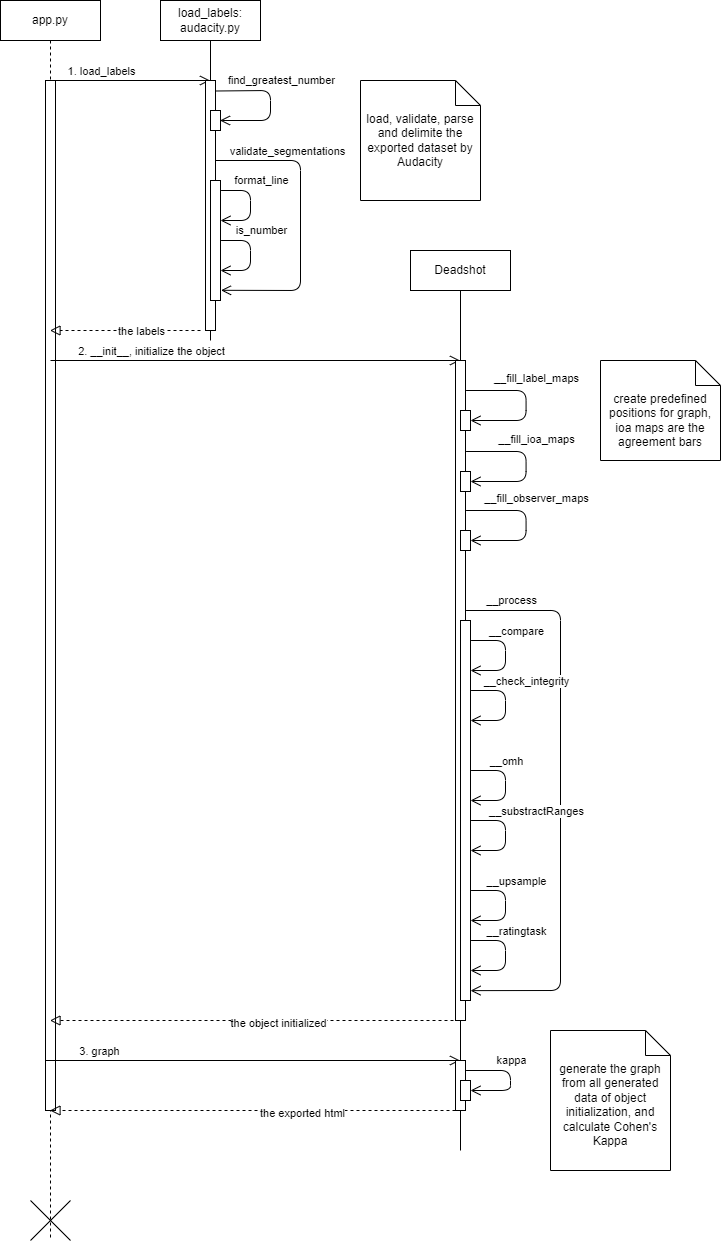
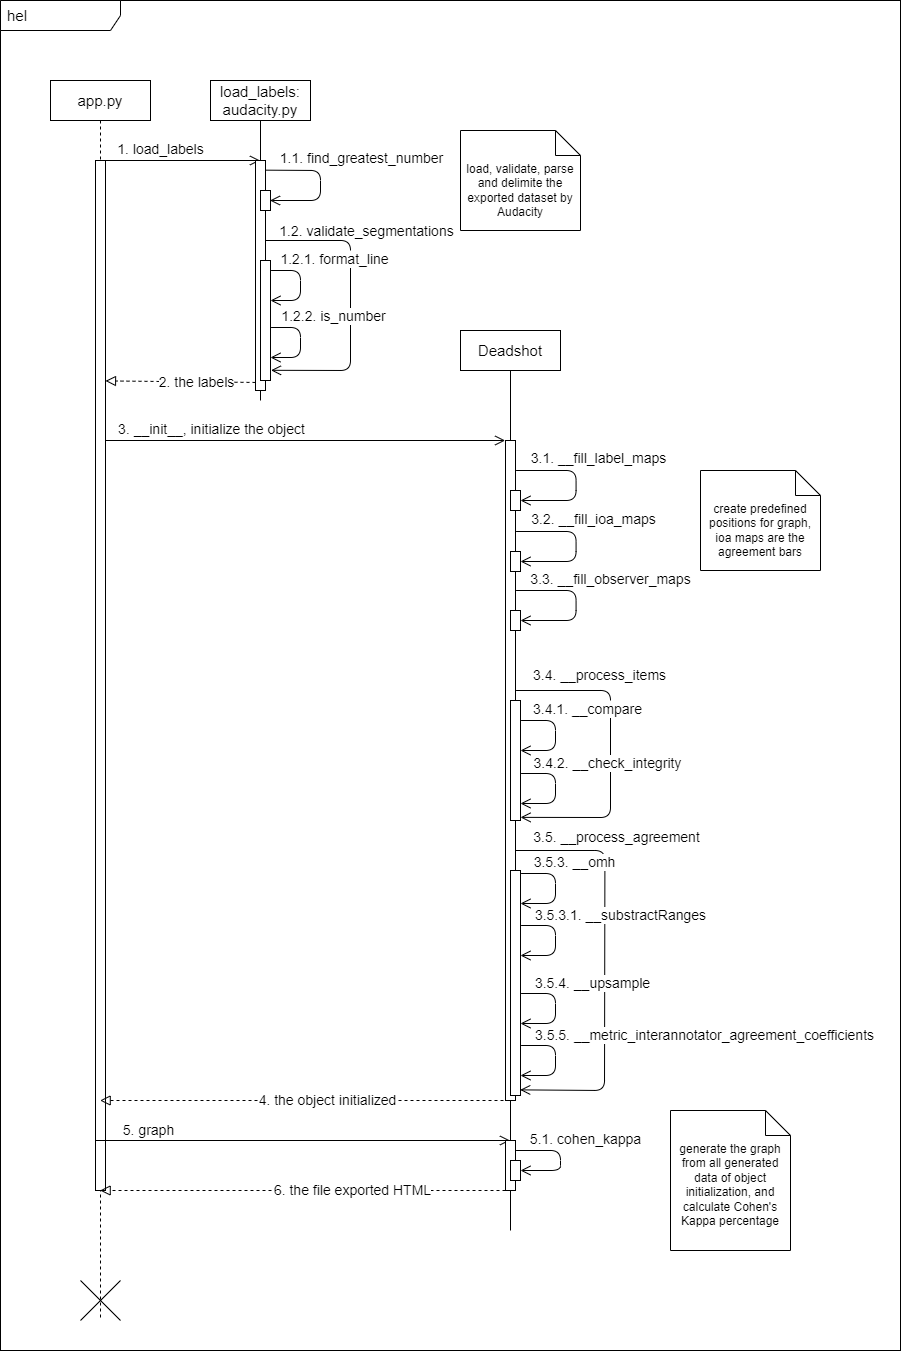
update docs and change names

diff --git a/app/lib/measures.py b/app/lib/measures.py
@@ -39,7 +39,8 @@ class Deadshot(object):
         self.__fill_label_maps()
         self.__fill_ioa_maps()
         self.__fill_observer_maps(sample_data)
-        self.__process(sample_data)
+        items1, items2 = self.__process_items(sample_data)
+        self.__process_agreement(items1, items2)
 
     def __fill_label_maps(self):
         incrementInEventRail = 0.0013
@@ -64,7 +65,6 @@ class Deadshot(object):
 
     def __check_integrity(self):
         o1, o2 = (len(v) for v in self.agreements.values())
-        if self.debug: print(f'[DEBUG] number of events in observer1: {o1}, observer2: {o2}')
         return True if o1 == o2 else False
 
     def __compare(self, v1, v2, observer1, observer2):
@@ -80,7 +80,7 @@ class Deadshot(object):
                     cv2.remove(event2)
                     break
 
-    def __subtractRanges(self, A, B):
+    def __items_symmetric_difference(self, A, B):
         ''' SUBTRACTS A FROM B
             e.g, A =    ------
                  B =  -----------
@@ -117,7 +117,7 @@ class Deadshot(object):
         while i < vl:
             if i + 1 < vl:
                 A, B = v[i], v[i + 1]
-                ranges = self.__subtractRanges(A, B)
+                ranges = self.__items_symmetric_difference(A, B)
                 if ranges[-1]:
                     del v[i]
                     del v[i + 1]
@@ -128,7 +128,7 @@ class Deadshot(object):
             i += 1
         return v
 
-    def __upsample(self, v, L, pad, d):
+    def __upsample_items(self, v, L, pad, d):
         '''__upsample(self, v) -> list
         e.g. #pv = [(0, 0.144560, 'RVF'), (0.201564, 0.856712, 'N')] # procesed vector
 
@@ -146,39 +146,32 @@ class Deadshot(object):
                 track[j] = label
         return track
 
-    def __process(self, sample_data):
-        t = process_time()
+    def __process_items(self, sample_data):
         data1, data2 = ((k, v) for k, v in sample_data.items())
-        o1, v1 = data1
-        o2, v2 = data2
-        if not v1 or not v2:
-            raise Exception('v1 or v2 not presented')
-        self.__compare(v1, v2, o1, o2)
-        self.__compare(v2, v1, o2, o1)
+        coder1, items1 = data1
+        coder2, items2 = data2
+        if not items1 or not items2:
+            raise Exception('items1 or items2 not presented')
+        self.__compare(items1, items2, coder1, coder2)
+        self.__compare(items2, items1, coder2, coder1)
 
         if not self.__check_integrity():
-            if self.debug: print(self.agreements)
             raise Exception('There are difference between two observers')
-        elapsed_time = process_time() - t
-        print(f'[BENCHMARK] -- {elapsed_time * 1000:.4f}ms') # if self.debug:
-        ov1 = self.__omh(v1)
-        if self.debug: print(f'[BENCHMARK] from omh v1 -- {timeit(lambda: self.__omh(v1), number=1000) * 1000:.4f}ms')
-        ov2 = self.__omh(v2)
-        if self.debug: print(f'[BENCHMARK] from omh v2 -- {timeit(lambda: self.__omh(v2), number=1000) * 1000:.4f}ms')
-        ref = self.__upsample(ov1, L=self.t, pad=self.padding, d=self.framing)
-        if self.debug: print(f'[BENCHMARK] from f(ov1) -- {timeit(lambda: self.__upsample(ov1, L=self.t, pad=self.padding, d=self.framing), number=1) * 1000:.4f}ms')
-        hyp = self.__upsample(ov2, L=self.t, pad=self.padding, d=self.framing)
-        if self.debug: print(f'[BENCHMARK] from f(ov2) -- {timeit(lambda: self.__upsample(ov2, L=self.t, pad=self.padding, d=self.framing), number=1) * 1000:.4f}ms')
-        if self.debug: print(f'[DEBUG] len of {len(ref)}, {len(hyp)}')
+        return (items1, items2)
 
-        self.__ratingtask(ref, hyp)
-        print(f'[INFO] kappa: {self.ratingtask.kappa() * 100:.2f}%')
+    def __process_agreement(self, items1, items2):
+        itemsTimeContinuous1 = self.__omh(items1)
+        itemsTimeContinuous2 = self.__omh(items2)
+        itemsUpsampled1 = self.__upsample_items(itemsTimeContinuous1, L=self.t, pad=self.padding, d=self.framing)
+        itemsUpsampled2 = self.__upsample_items(itemsTimeContinuous2, L=self.t, pad=self.padding, d=self.framing)
+        self.__metric_interannotator_agreement_coefficients(itemsUpsampled1, itemsUpsampled2)
 
-    def __ratingtask(self, v1, v2):
+    def __metric_interannotator_agreement_coefficients(self, v1, v2):
         formatted = [[1, i, v] for i, v in enumerate(v1)] + [[2, i, v] for i, v in enumerate(v2)]
         self.ratingtask = agreement.AnnotationTask(data=formatted)
+        print(f'[INFO] Cohen\'s Kappa: {self.ratingtask.kappa() * 100:.2f}%')
 
-    def kappa(self):
+    def cohen_kappa(self):
         if not self.ratingtask:
             return None
         return f'Cohen\'s Kappa: {round(self.ratingtask.kappa() * 100, 4)}%'
@@ -247,7 +240,7 @@ class Deadshot(object):
         # add ioa percent
         print('[GRAPH] drawing ioa percent ...')
         ioaPercent = Label(x=70, y=500, x_units='screen', y_units='screen',
-                 text=self.kappa(), render_mode='css',
+                 text=self.cohen_kappa(), render_mode='css',
                  border_line_color='black', border_line_alpha=0.9,
                  background_fill_color='white', background_fill_alpha=1.0)
         p.add_layout(ioaPercent)
